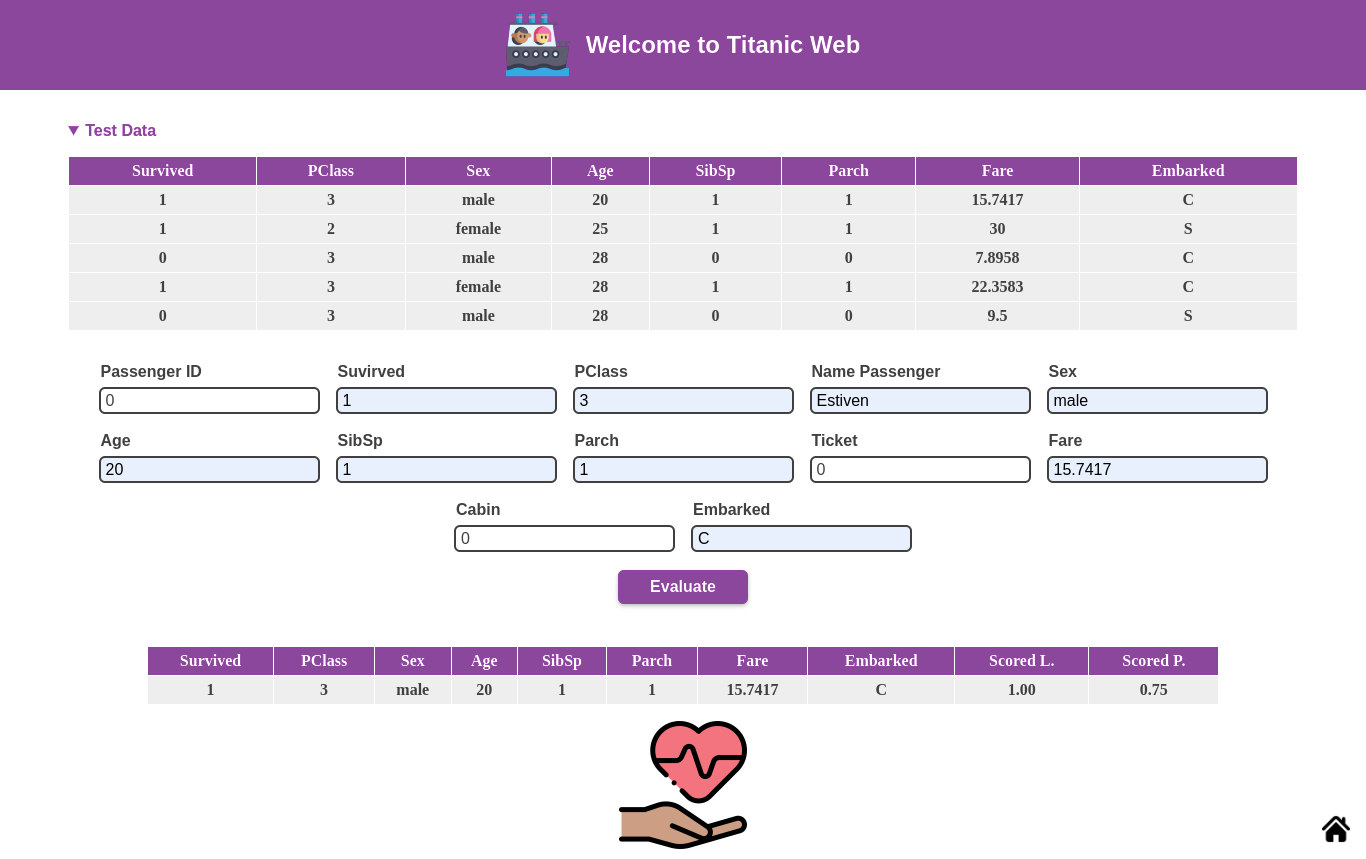
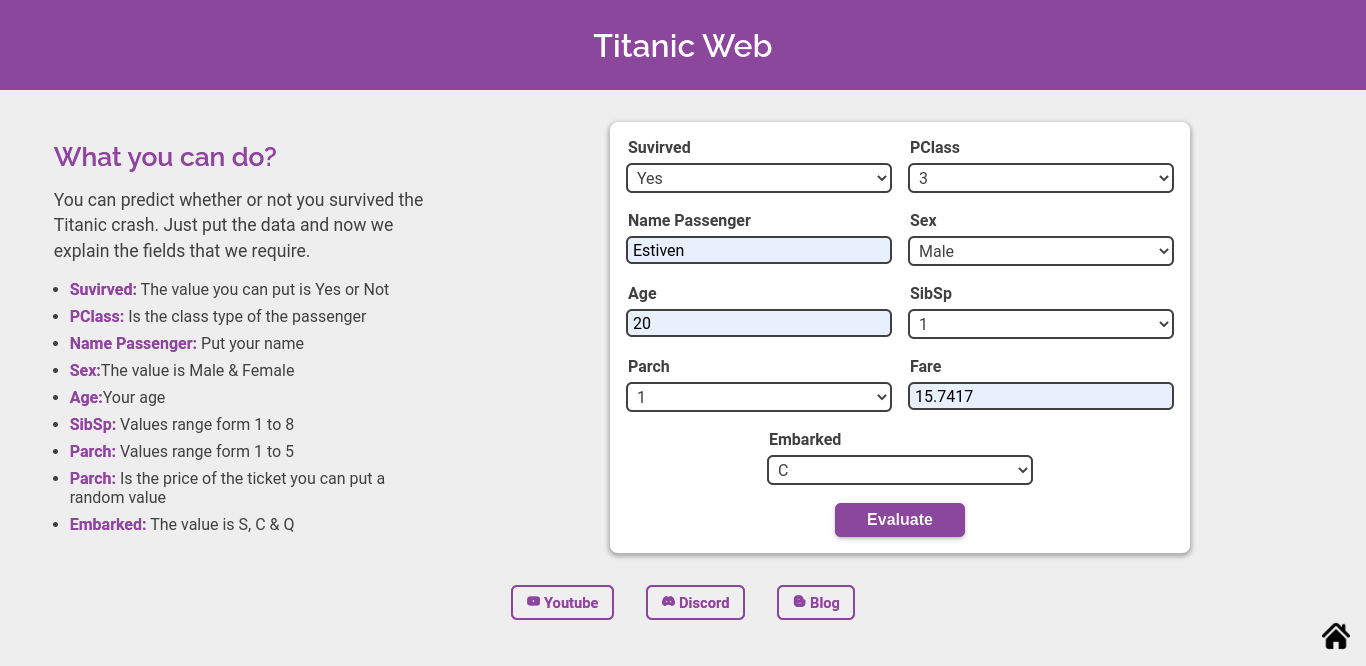
add the new layout by the readme

diff --git a/README.md b/README.md
@@ -52,6 +52,10 @@ Now, In this app, you will find examples of predictive models apply **machine le
 
 ![View Titanic](./images/view_titanic.png)
 
+![View Titanic Results](./images/view_titanic_result.png)
+
 **Cars**
 
 ![View Cars](./images/view_cars.png)
+
+![View Cars Results](./images/view_cars_result.png)
